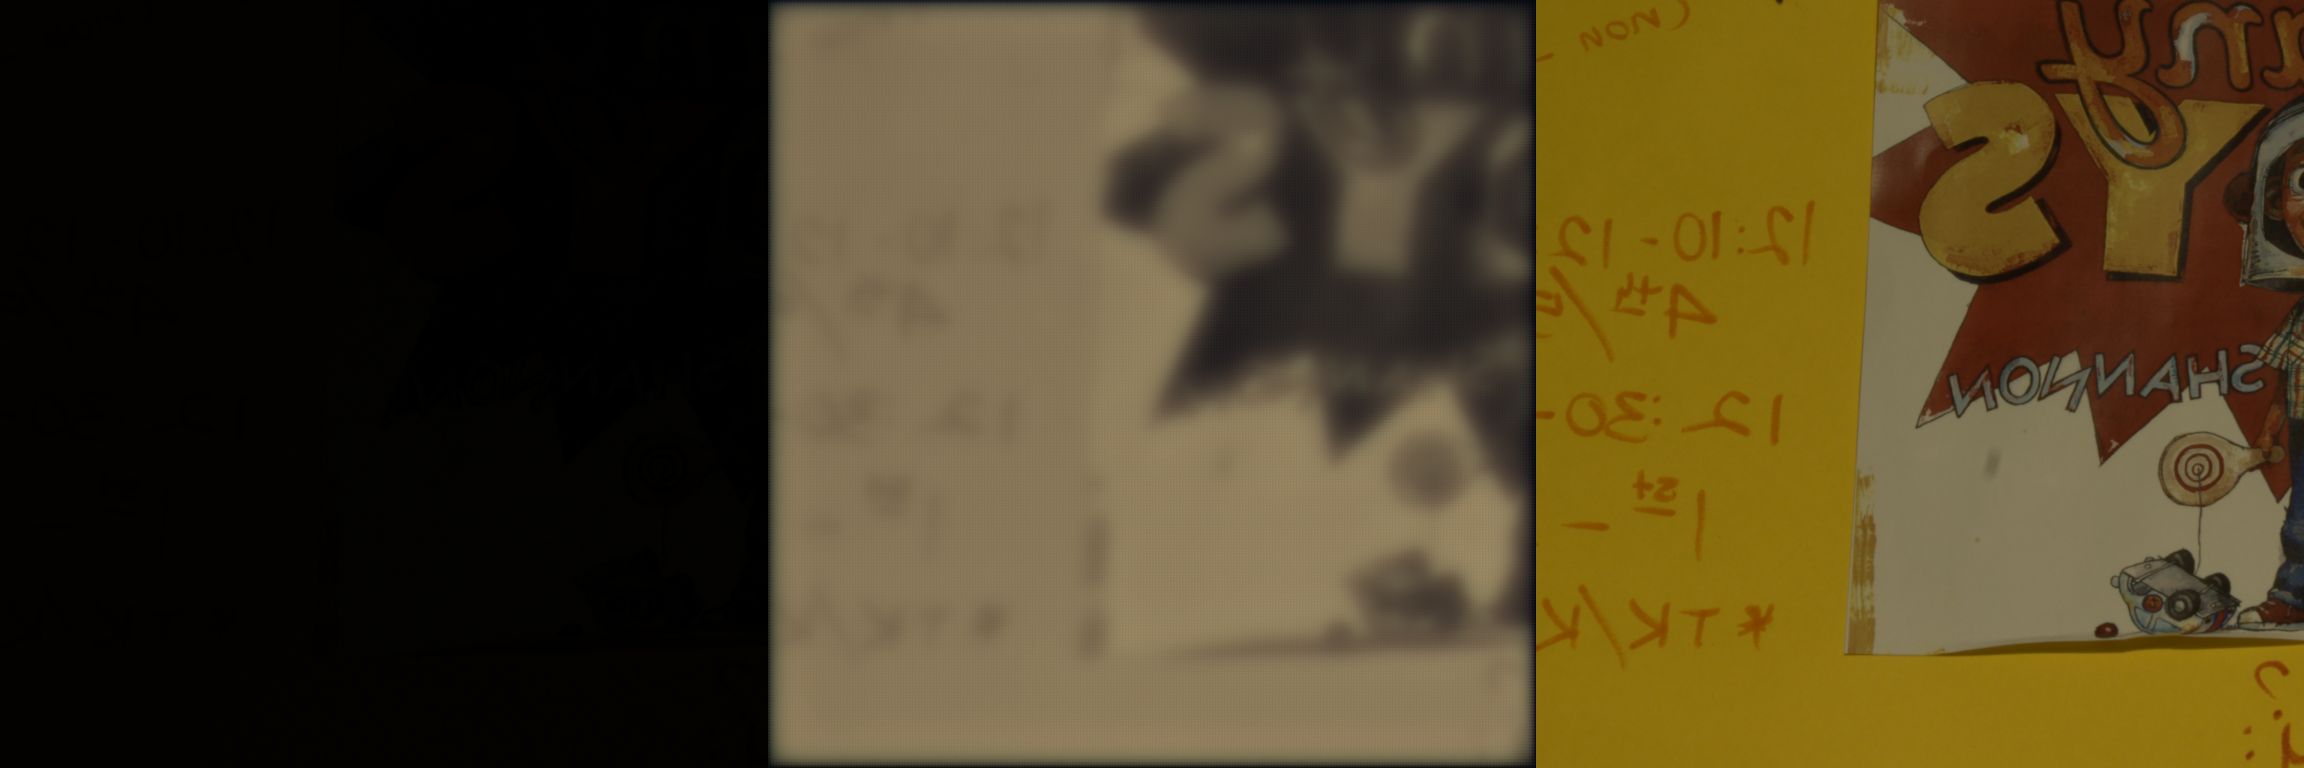
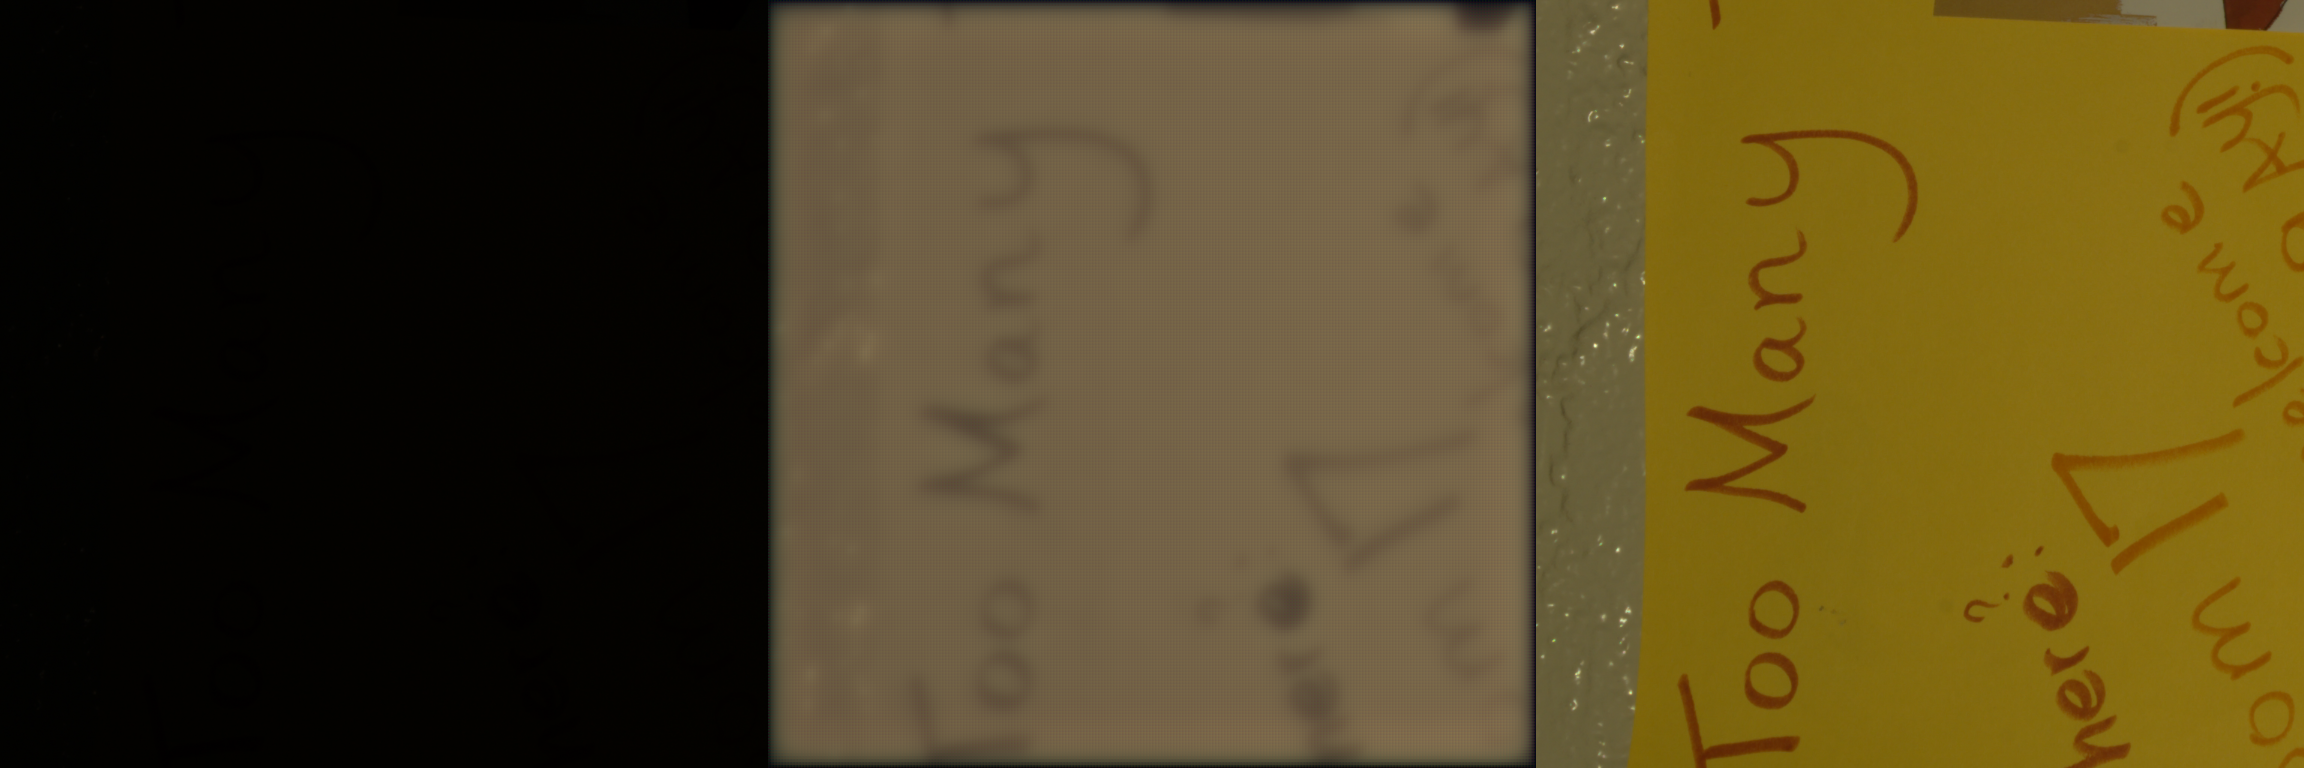
fixed efficient training

diff --git a/training.py b/training.py
@@ -283,59 +283,91 @@ def prepare_cache(pairs_by_split, cfg):
             print(f"  [{i + 1}/{len(todo)}] cached")
 
 
-# =============================================================================
-# Dataset
-# =============================================================================
 class SIDDataset(Dataset):
-    def __init__(self, cfg, split='train'):
+    def __init__(self, cfg, split='train', use_ram_cache=True):
         self.cfg = cfg
         self.split = split
         self.pairs = get_split_pairs(cfg, split)
         self.ps = cfg['patch']['packed_patch_size']
         self.augment = cfg['patch'].get('augment', True) and split == 'train'
         self.ratio_cap = cfg['data'].get('ratio_cap', 300.0)
+        
+        # In-memory RAM cache to completely eliminate disk I/O after epoch 1
+        self.use_ram_cache = use_ram_cache
+        self.ram_cache = {}
 
     def __len__(self):
         return len(self.pairs)
 
+    def _load_image(self, path, is_npy=False):
+        if self.use_ram_cache and path in self.ram_cache:
+            return self.ram_cache[path]
+
+        if is_npy:
+            # Load as float32 but we don't duplicate the load check anymore
+            data = np.load(path, allow_pickle=False)
+        else:
+            # Load as uint16, DO NOT convert to float32 yet
+            data = cv2.imread(path, cv2.IMREAD_UNCHANGED)
+            data = cv2.cvtColor(data, cv2.COLOR_BGR2RGB)
+
+        if self.use_ram_cache:
+            self.ram_cache[path] = data
+        return data
+
     def __getitem__(self, idx):
         sb, lb = self.pairs[idx]
-        paths = ensure_cache_for_pair(sb, lb, self.cfg, build_missing=True)
+        d = self.cfg['data']
+        root = d['data_root']
 
-        packed = np.load(paths['packed_path'], allow_pickle=False).astype(np.float32)  # (h, w, 4), unamplified
-        ratio = compute_ratio(paths['short_path'], paths['long_path'], self.ratio_cap)
-        x = np.minimum(packed * ratio, 1.0)
+        # Construct paths directly to bypass the redundant disk validation
+        packed_path = os.path.join(root, d['packed_cache_dirname'], os.path.splitext(sb)[0] + '.npy')
+        short_rgb_path = os.path.join(root, d['short_rgb_dirname'], os.path.splitext(sb)[0] + '.png')
+        long_rgb_path = os.path.join(root, d['long_rgb_dirname'], os.path.splitext(lb)[0] + '.png')
+        short_path = os.path.join(root, d['short_dirname'], sb)
+        long_path = os.path.join(root, d['long_dirname'], lb)
 
-        y_bgr = cv2.imread(paths['long_rgb_path'], cv2.IMREAD_UNCHANGED)
-        cond_bgr = cv2.imread(paths['short_rgb_path'], cv2.IMREAD_UNCHANGED)
-        y = cv2.cvtColor(y_bgr, cv2.COLOR_BGR2RGB).astype(np.float32) / 65535.0
-        cond = cv2.cvtColor(cond_bgr, cv2.COLOR_BGR2RGB).astype(np.float32) / 65535.0
+        # Load from RAM cache or disk
+        packed = self._load_image(packed_path, is_npy=True)
+        y_uint16 = self._load_image(long_rgb_path, is_npy=False)
+        cond_uint16 = self._load_image(short_rgb_path, is_npy=False)
+
+        ratio = compute_ratio(short_path, long_path, self.ratio_cap)
 
         if self.split == 'train':
-            x, y, cond = self._crop_and_augment(x, y, cond)
+            # CROP FIRST: Only process the pixels we actually need
+            ps = min(self.ps, packed.shape[0], packed.shape[1])
+            top = random.randint(0, packed.shape[0] - ps)
+            left = random.randint(0, packed.shape[1] - ps)
+
+            packed_crop = packed[top:top + ps, left:left + ps, :]
+            y_crop = y_uint16[top * 2:top * 2 + ps * 2, left * 2:left * 2 + ps * 2, :]
+            cond_crop = cond_uint16[top * 2:top * 2 + ps * 2, left * 2:left * 2 + ps * 2, :]
+
+            # CONVERT LATER: Now convert just the tiny cropped patch to float32
+            x = np.minimum(packed_crop * ratio, 1.0)
+            y = y_crop.astype(np.float32) / 65535.0
+            cond = cond_crop.astype(np.float32) / 65535.0
+
+            if self.augment:
+                if random.random() < 0.5:
+                    x, y, cond = x[:, ::-1, :], y[:, ::-1, :], cond[:, ::-1, :]
+                if random.random() < 0.5:
+                    x, y, cond = x[::-1, :, :], y[::-1, :, :], cond[::-1, :, :]
+                if random.random() < 0.5:
+                    x, y, cond = x.transpose(1, 0, 2), y.transpose(1, 0, 2), cond.transpose(1, 0, 2)
+        else:
+            # Val logic remains the same (needs full image)
+            x = np.minimum(packed * ratio, 1.0)
+            y = y_uint16.astype(np.float32) / 65535.0
+            cond = cond_uint16.astype(np.float32) / 65535.0
 
         x = torch.from_numpy(np.ascontiguousarray(x.transpose(2, 0, 1)))
         y = torch.from_numpy(np.ascontiguousarray(y.transpose(2, 0, 1)))
         cond = torch.from_numpy(np.ascontiguousarray(cond.transpose(2, 0, 1)))
+        
         return {'x': x, 'y': y, 'cond': cond, 'ratio': ratio,
-                'short_path': paths['short_path'], 'long_path': paths['long_path']}
-
-    def _crop_and_augment(self, x, y, cond):
-        ps = min(self.ps, x.shape[0], x.shape[1])
-        top = random.randint(0, x.shape[0] - ps)
-        left = random.randint(0, x.shape[1] - ps)
-        x = x[top:top + ps, left:left + ps, :]
-        y = y[top * 2:top * 2 + ps * 2, left * 2:left * 2 + ps * 2, :]
-        cond = cond[top * 2:top * 2 + ps * 2, left * 2:left * 2 + ps * 2, :]
-
-        if self.augment:
-            if random.random() < 0.5:
-                x, y, cond = x[:, ::-1, :], y[:, ::-1, :], cond[:, ::-1, :]
-            if random.random() < 0.5:
-                x, y, cond = x[::-1, :, :], y[::-1, :, :], cond[::-1, :, :]
-            if random.random() < 0.5:
-                x, y, cond = x.transpose(1, 0, 2), y.transpose(1, 0, 2), cond.transpose(1, 0, 2)
-        return x, y, cond
+                'short_path': short_path, 'long_path': long_path}
 
 
 # =============================================================================
@@ -627,7 +659,8 @@ def main():
 
     train_ds = SIDDataset(cfg, split='train')
     val_ds = SIDDataset(cfg, split='val')
-    num_workers = max(0, min(2, int(cfg['train'].get('num_workers', 0))))
+    default_workers = max(1, os.cpu_count() // 2)
+    num_workers = int(cfg['train'].get('num_workers', default_workers))
     print(f"[data] using {num_workers} DataLoader worker(s)")
     train_loader = DataLoader(train_ds, batch_size=cfg['train']['batch_size'], shuffle=True,
                                num_workers=num_workers, pin_memory=True, drop_last=True)
@@ -661,20 +694,26 @@ def main():
             y = batch['y'].to(device, non_blocking=True)
             cond = batch['cond'].to(device, non_blocking=True)
 
+            # --- Shared G Forward Pass ---
+            # Run the generator once. 
+            fake = G(x)
+
             # --- D step ---
             opt_D.zero_grad()
-            with torch.no_grad():
-                fake_detached = G(x)
             d_real = D(cond, y)
-            d_fake = D(cond, fake_detached)
+            
+            # Use .detach() here so gradients don't flow back into G during D's step
+            d_fake = D(cond, fake.detach()) 
+            
             loss_d = losses.d_loss(d_real, d_fake)
             loss_d.backward()
             opt_D.step()
 
             # --- G step ---
             opt_G.zero_grad()
-            fake = G(x)
-            d_fake_for_g = D(cond, fake)
+            
+            # Feed the exact same 'fake' (still attached to the graph) to D
+            d_fake_for_g = D(cond, fake) 
             loss_g, parts = losses.g_loss(d_fake_for_g, fake, y)
             loss_g.backward()
             opt_G.step()